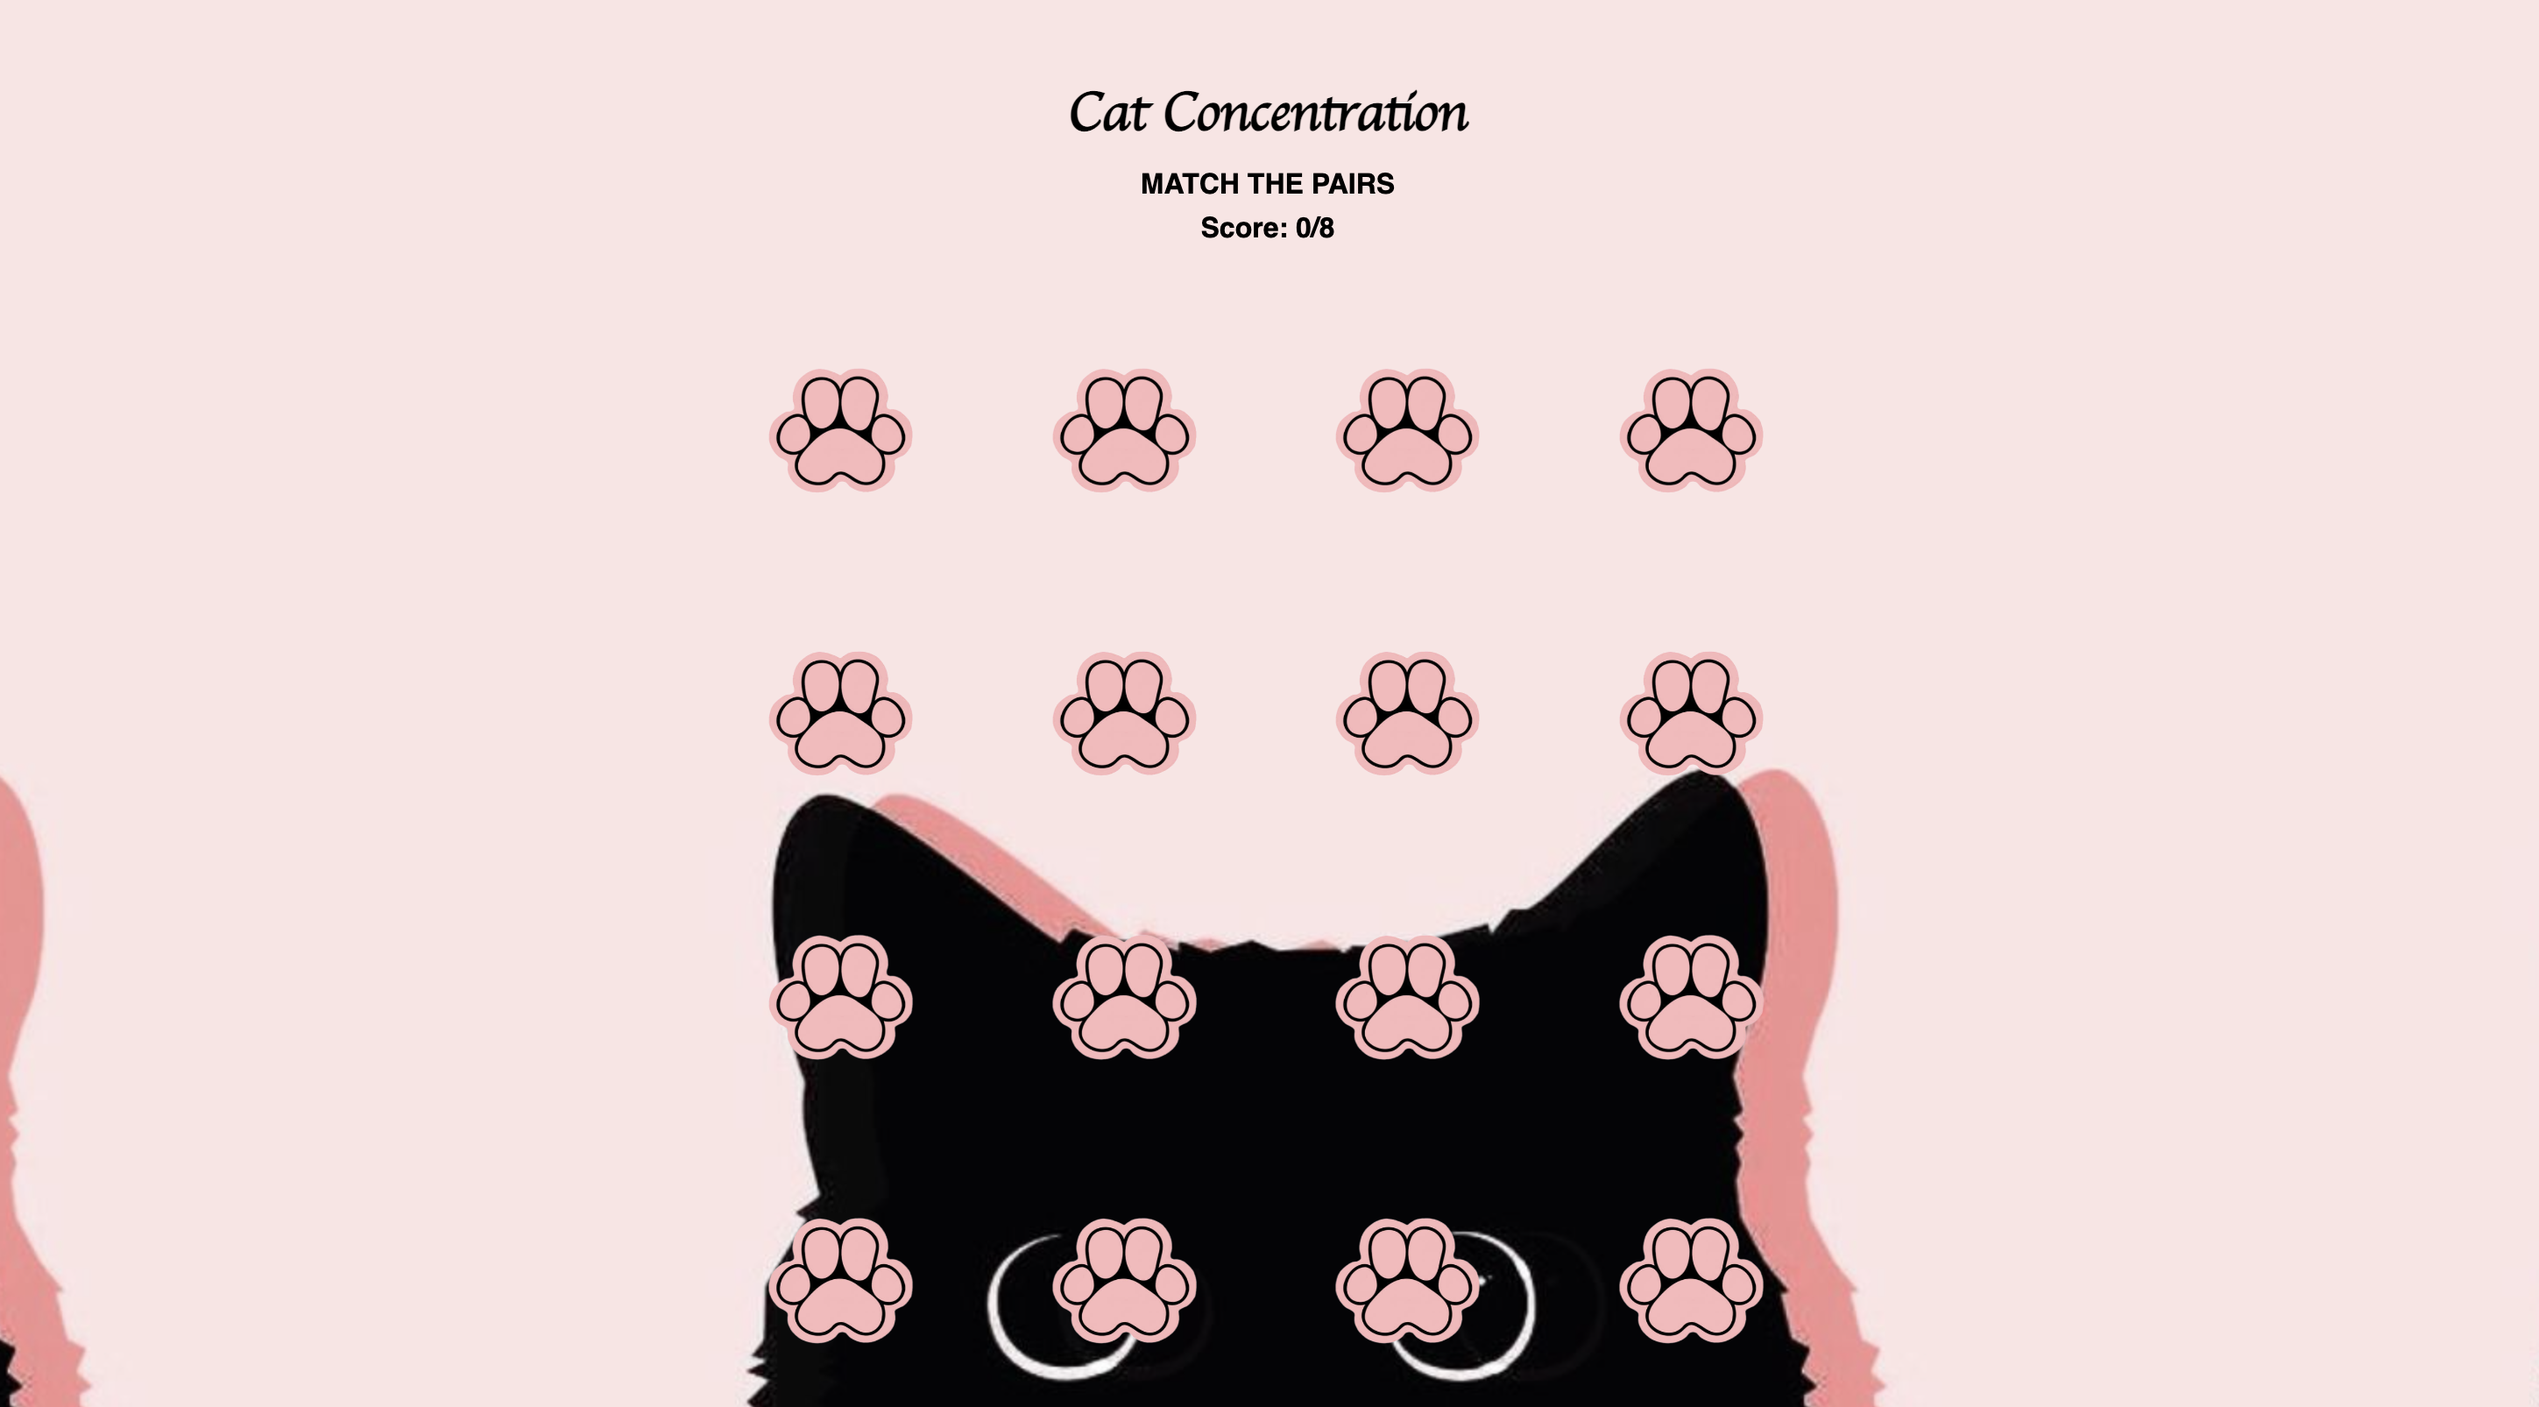
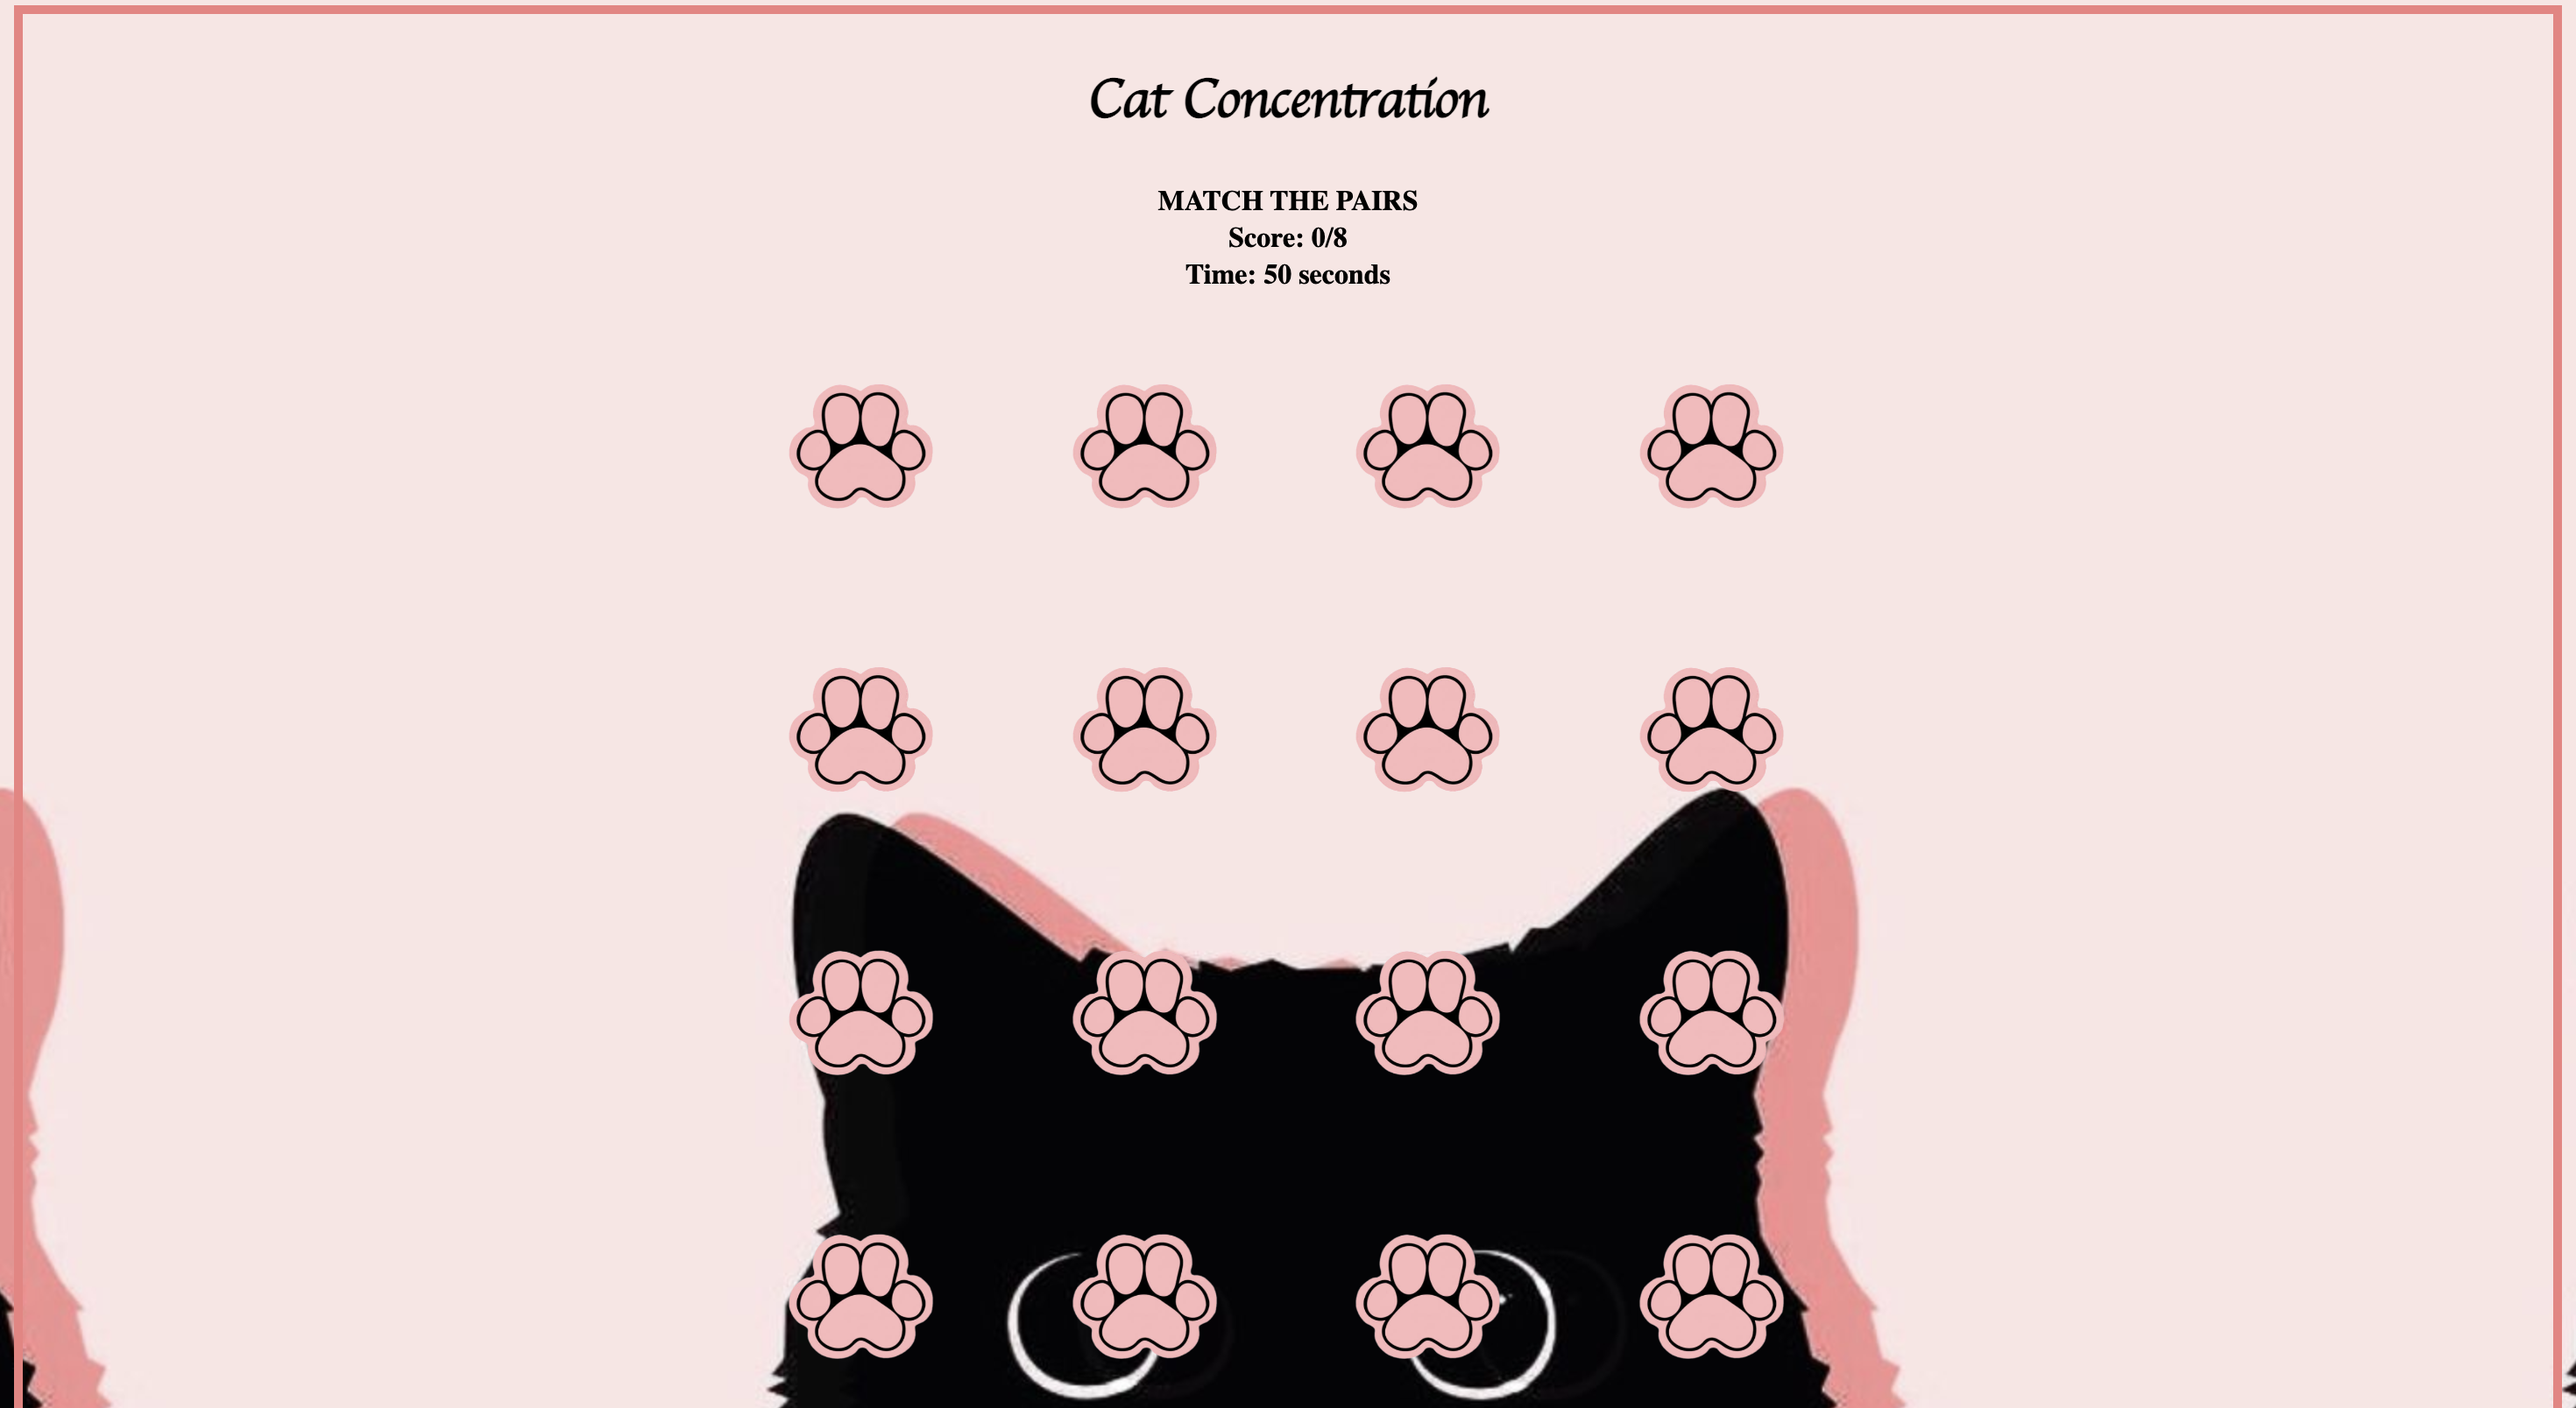
updating css font

diff --git a/index.html b/index.html
@@ -32,7 +32,7 @@
     <div class="modal" id="timeModal">
       <div class="modal-content">
         <span class="modal-close">&times;</span>
-        <p class="popup">Times up!</p>
+        <p class="popup">Times up! You lost the game.</p>
         <button id="playAgainBtn" onclick="startGame()">Play Again</button>
       </div>
     </div>

diff --git a/css/style.css b/css/style.css
@@ -61,6 +61,12 @@ button {
 h1 {
   font-family: cursive;
 }
+h2 {
+  font-size: 3.0vmin;
+}
+p {
+  font-size: 2.5vmin;
+}
 
 footer {
   text-align: center;

diff --git a/README.md b/README.md
@@ -39,7 +39,9 @@ Concentration is a matching card game where all the cards are laid out face down
 * adjust CSS to make the game mobile 
 * add easy, medium, and hard levels to the game
 * add a flip card animation
-* put a reset button during the game if the player wants to start over in the middle of the game
+* add a reset button during the game if the player wants to start over in the middle of the game
+* add audio for winning and losing the game.
+
 
 ---
 
